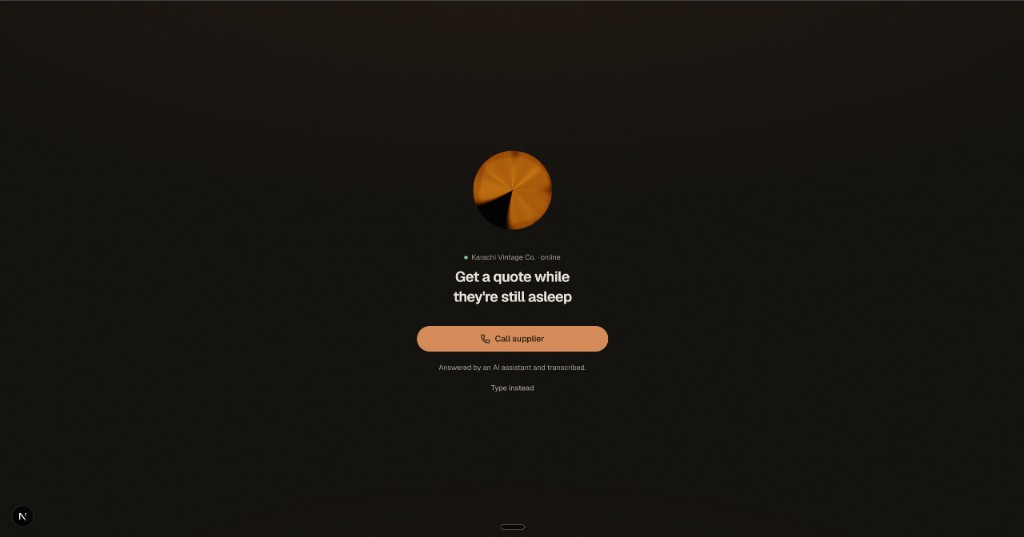
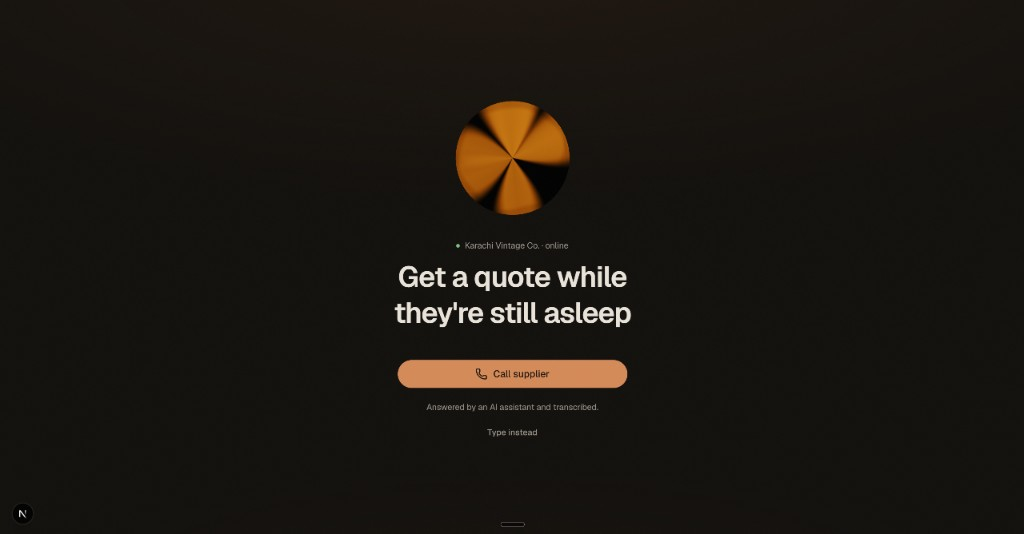
Enlarge idle hero so it fills the screen
Scale up the home screen orb and headline with responsive sizing so the call-to-action does not look lost on wide demo displays, and refresh the README idle screenshot to match.

Changed region(s): [[0.375, 0.1798, 0.625, 0.779], [0.4688, 0.809, 0.5312, 0.839]]

diff --git a/web/src/components/call/idle-screen.tsx b/web/src/components/call/idle-screen.tsx
@@ -7,8 +7,9 @@ import { Orb } from "@/components/ui/orb";
 import { ORB_COLORS } from "./supplier-header";
 
 /**
- * State A. A single living orb, who you're calling, one calm line, and one
- * primary action. Everything else is whitespace.
+ * State A. A large living orb owns the screen, with who you're calling, one
+ * calm line, and one primary action. Sized to fill a demo display: the orb
+ * scales up on wider viewports so it never feels lost in empty space.
  */
 export function IdleScreen({
   onCall,
@@ -18,37 +19,39 @@ export function IdleScreen({
   onText: () => void;
 }) {
   return (
-    <div className="flex w-full max-w-sm flex-col items-center gap-8 text-center animate-rise">
-      <div className="size-36">
-        <Orb className="h-full w-full" colors={ORB_COLORS} />
+    <div className="flex min-h-[88vh] w-full max-w-2xl flex-col items-center justify-center gap-12 text-center animate-rise">
+      <div className="flex flex-col items-center gap-8">
+        <div className="size-40 sm:size-44 lg:size-52">
+          <Orb className="h-full w-full" colors={ORB_COLORS} />
+        </div>
+
+        <div className="flex flex-col items-center gap-3">
+          <p className="flex items-center gap-2 text-sm text-muted-foreground">
+            <span className="size-1.5 rounded-full bg-status-qualified" aria-hidden />
+            Karachi Vintage Co. · online
+          </p>
+          <h1 className="max-w-xl text-3xl font-semibold leading-tight tracking-tight text-foreground text-balance sm:text-4xl lg:text-5xl">
+            Get a quote while they&apos;re still asleep
+          </h1>
+        </div>
       </div>
 
-      <div className="flex flex-col items-center gap-2">
-        <p className="flex items-center gap-1.5 text-xs text-muted-foreground">
-          <span className="size-1.5 rounded-full bg-status-qualified" aria-hidden />
-          Karachi Vintage Co. · online
-        </p>
-        <h1 className="text-2xl font-semibold leading-snug tracking-tight text-foreground text-balance">
-          Get a quote while they&apos;re still asleep
-        </h1>
-      </div>
-
-      <div className="flex w-full flex-col items-center gap-4">
+      <div className="flex w-full flex-col items-center gap-5">
         <Button
           onClick={onCall}
-          className="h-11 w-full max-w-xs gap-2 rounded-full text-sm font-medium"
+          className="h-12 w-full max-w-sm gap-2.5 rounded-full text-base font-medium"
         >
-          <Phone className="size-4" />
+          <Phone className="size-5" />
           Call supplier
         </Button>
 
-        <p className="max-w-xs text-xs leading-relaxed text-muted-foreground">
+        <p className="max-w-xs text-sm leading-relaxed text-muted-foreground">
           Answered by an AI assistant and transcribed.
         </p>
 
         <button
           onClick={onText}
-          className="text-xs font-medium text-muted-foreground underline-offset-4 transition-colors hover:text-foreground hover:underline"
+          className="text-sm font-medium text-muted-foreground underline-offset-4 transition-colors hover:text-foreground hover:underline"
         >
           Type instead
         </button>